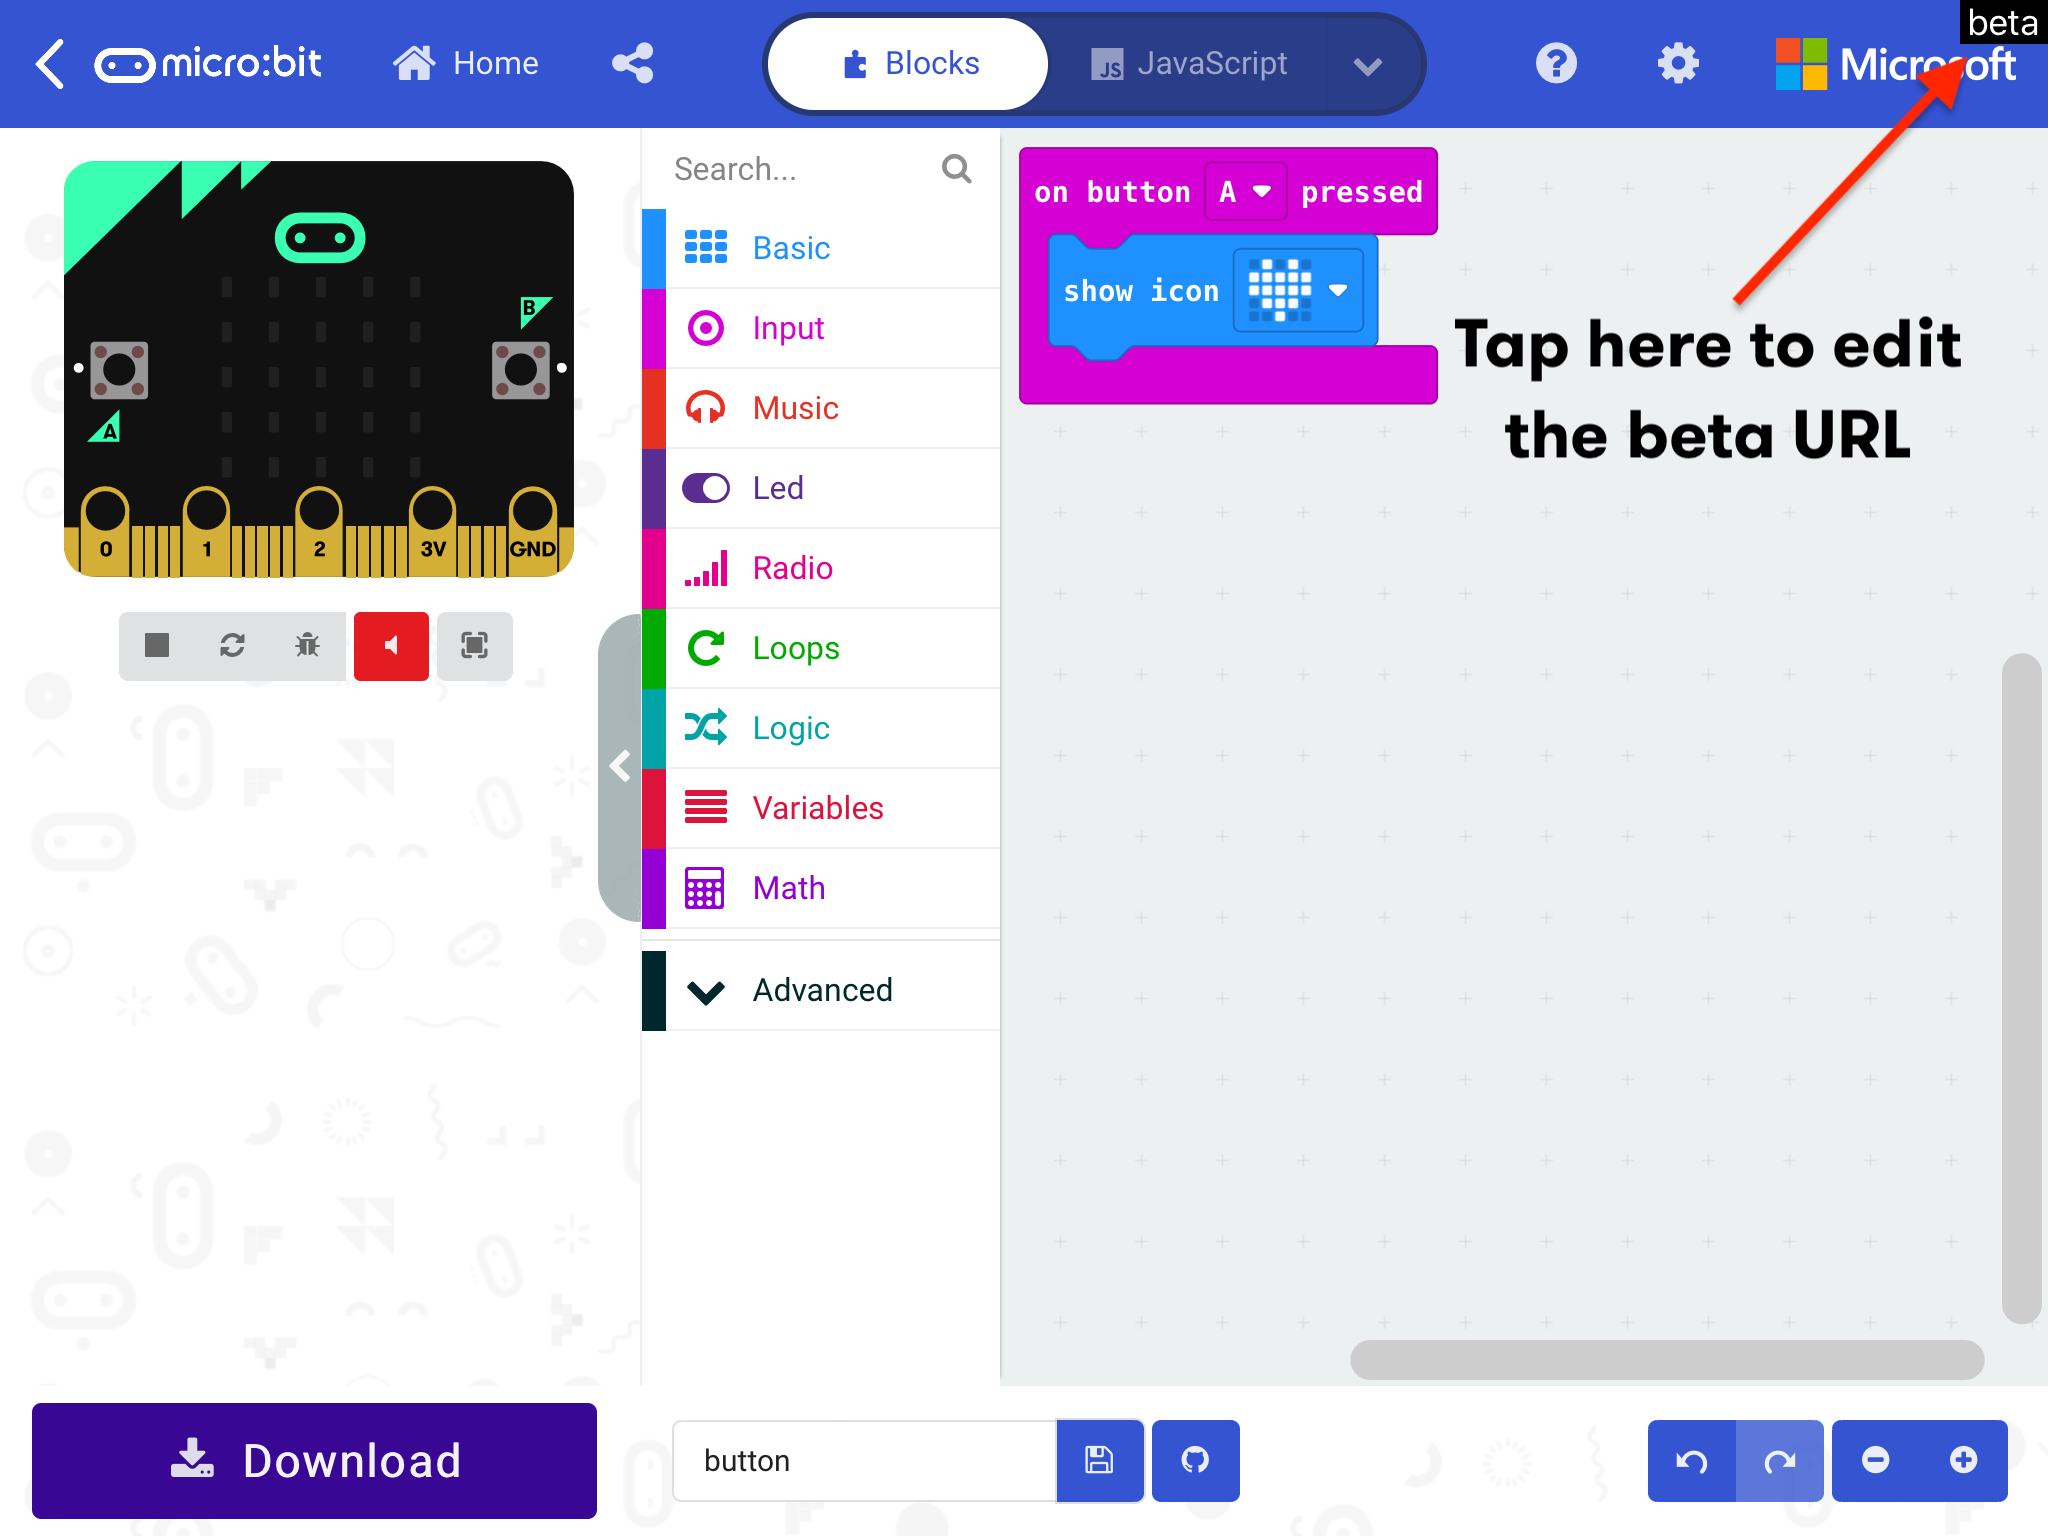
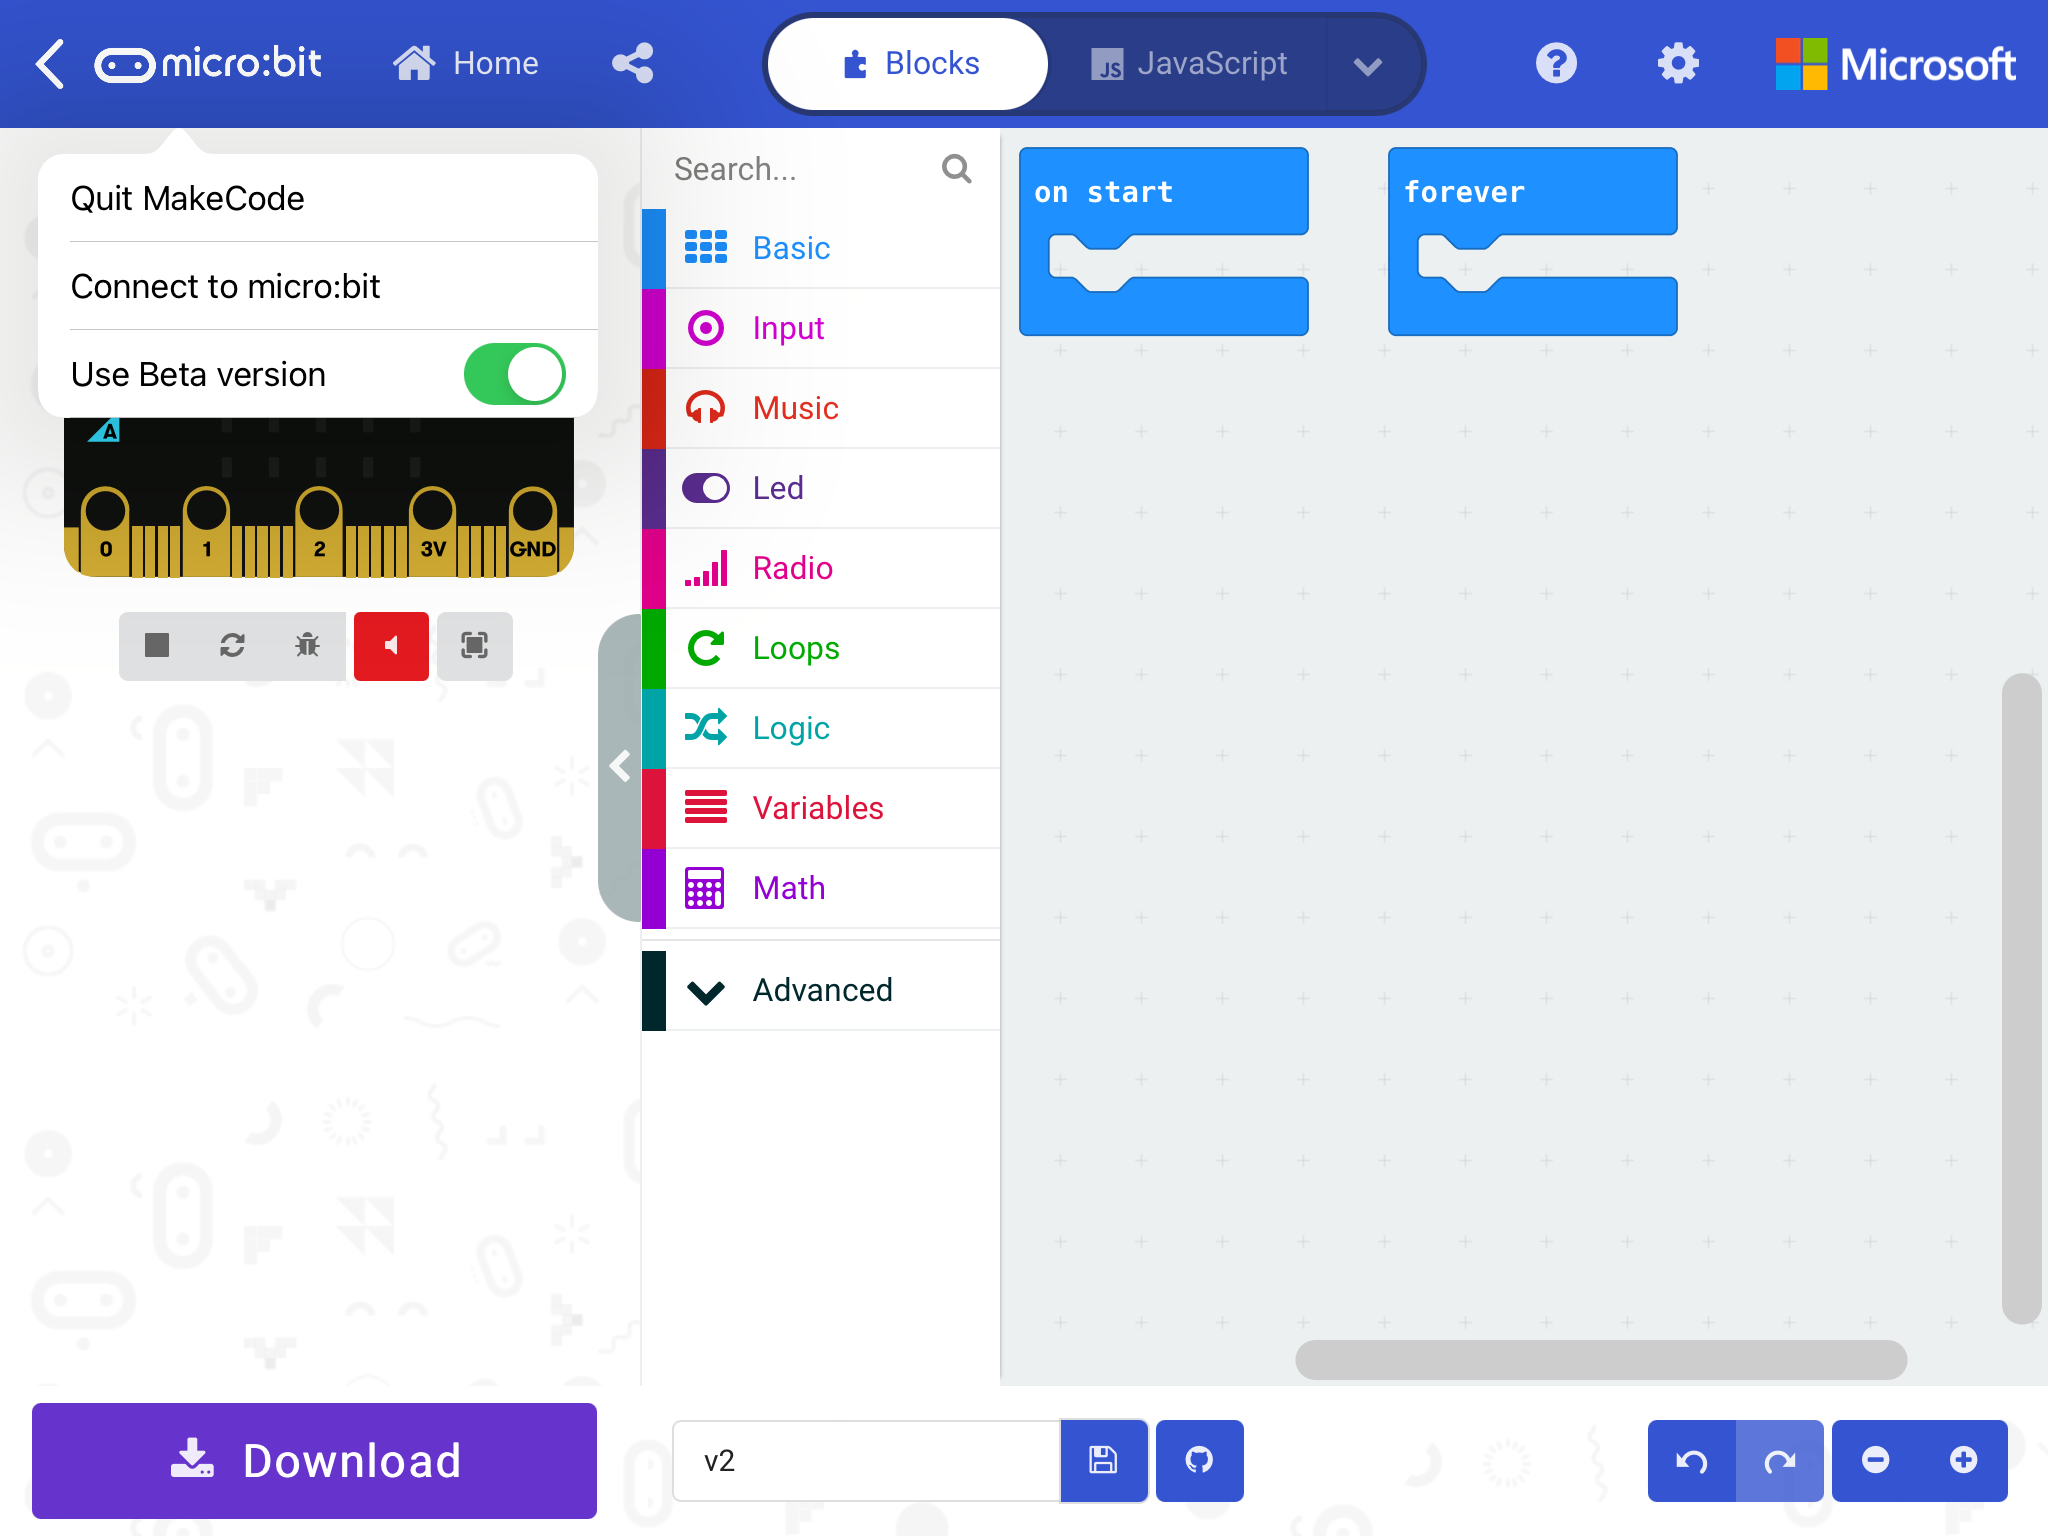
update iOS beta instructions (#173)

diff --git a/software/testing.md b/software/testing.md
@@ -33,7 +33,7 @@ If you find direct browser flashing (webUSB) isn't working, it is likely that yo
 
 ### iOS App
 
-The iOS App TestFlight/beta has a hidden option that enables you to input the makecode version URL eg  [https://makecode.microbit.org/beta](https://makecode.microbit.org/beta)
+The iOS App beta is released via Apple TestFlight.
 
 To test, you will need to:
 
@@ -42,13 +42,13 @@ To test, you will need to:
 
 You will be notified via email when you have been added to the TestFlight and the app will appear as an option to install within the TestFlight app.
 
-When you open the app, tap on the word ‘beta’ in the top right of the screen. 
+To switch to the beta editor within the app:
+
+1. Select **Create Code** to open the MakeCode editor
+2. Press and hold the micro:bit logo to open the drop-down menu
+3. Toggle the button for **Use Beta version** to reload the editor in beta.
 
 ![iOS beta button](/docs/software/assets/ios-beta-button.png)
-
-This will open a dialogue for you to enter in the URL suffix [beta](https://makecode.microbit.org/beta). Pressing enter will reload the editor at this URL.
-
-![iOS beta URL](/docs/software/assets/ios-beta-url.png)
 
 ### Android App
 
